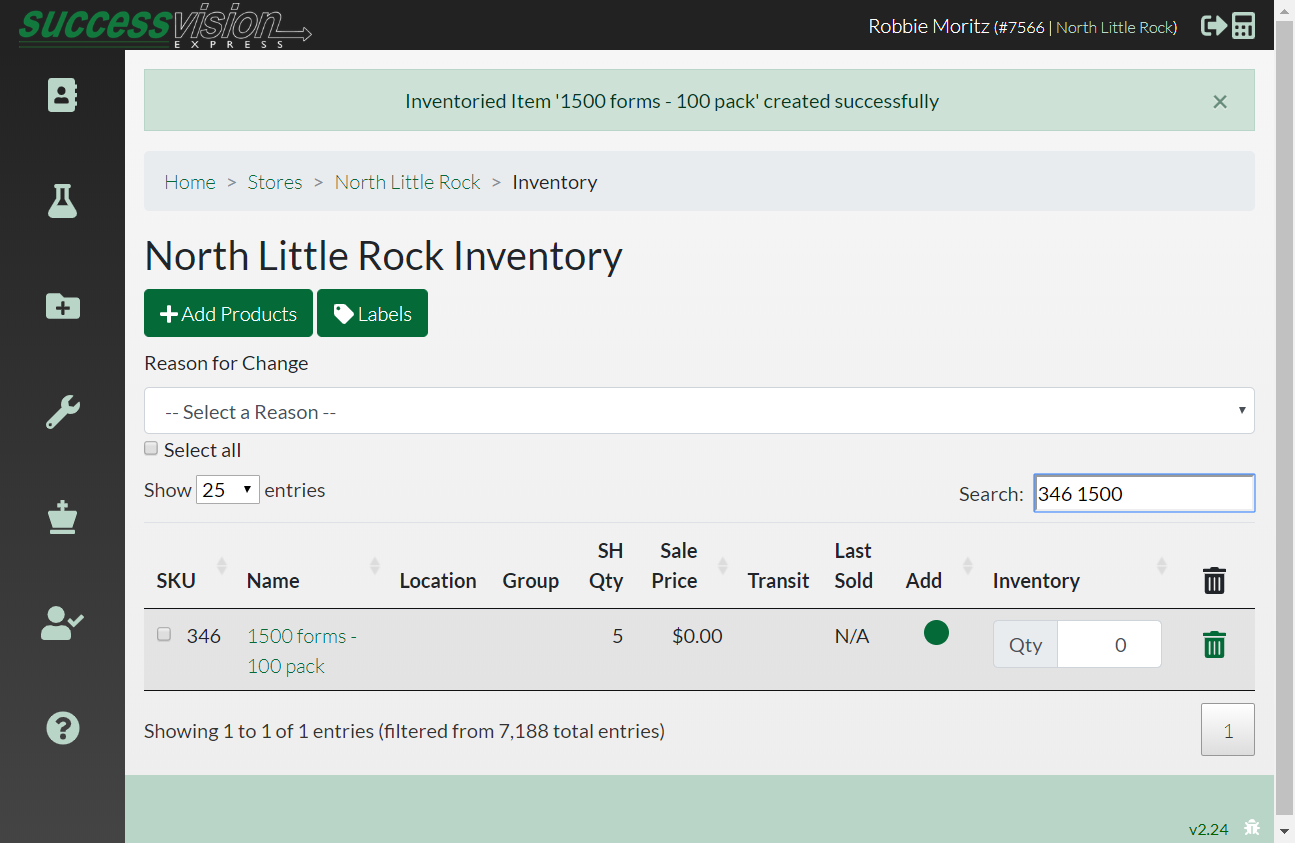
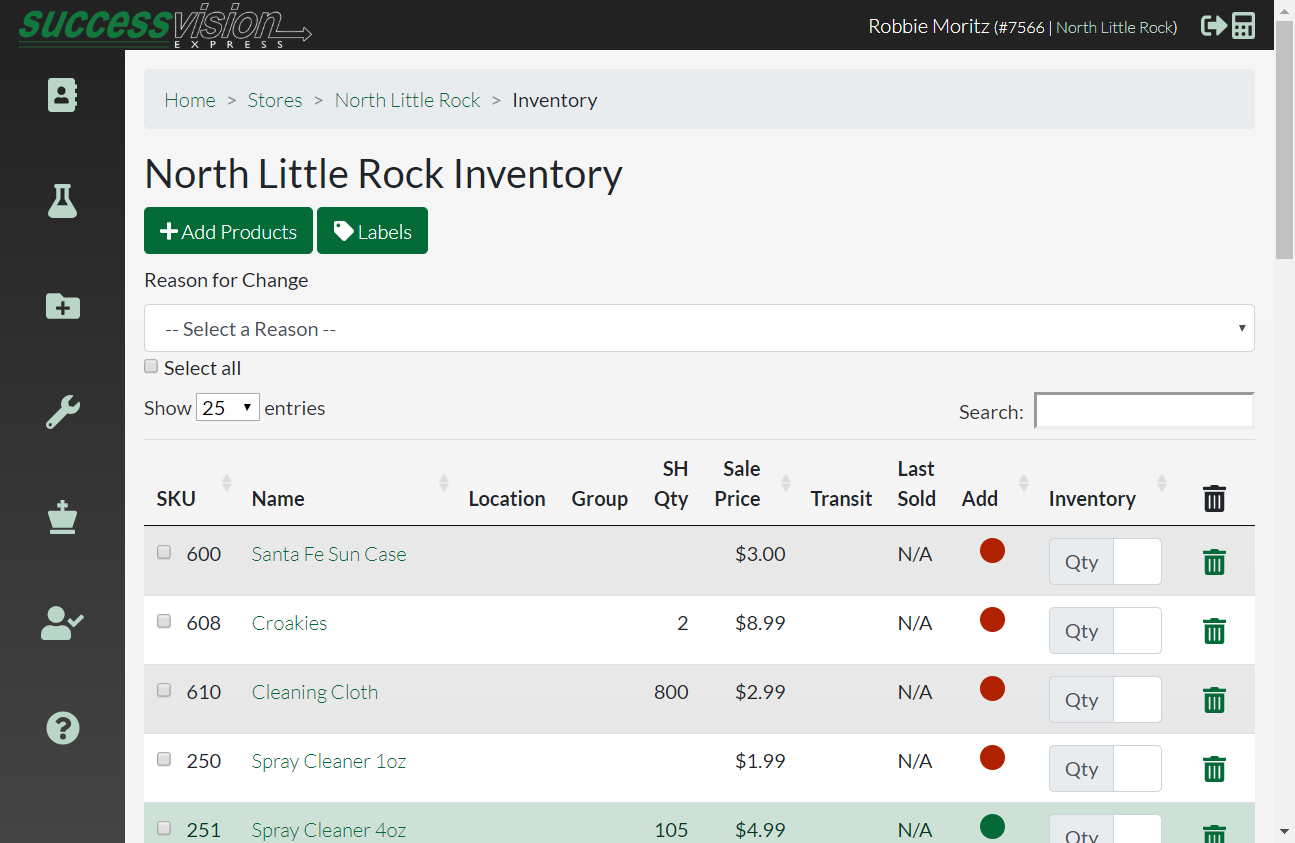
Inventory tests completed and added to the xml file

diff --git a/src/main/java/pages/InventoryPage.java b/src/main/java/pages/InventoryPage.java
@@ -3,6 +3,7 @@ package pages;
 import org.openqa.selenium.*;
 import org.openqa.selenium.WebDriver;
 import org.openqa.selenium.support.ui.ExpectedConditions;
+import org.openqa.selenium.support.ui.Select;
 import org.openqa.selenium.support.ui.WebDriverWait;
 
 public class InventoryPage {
@@ -18,21 +19,32 @@ public class InventoryPage {
     }
 
 
-
+       // private By showDataEntries = By.id("DataTables_Table_1_length");
         private By addProductsBtn = By.xpath("//button[@class='btn btn-primary js-confirm-this']");
         private By pleaseSelectList = By.xpath("//span[contains(text(),'Please select')]");
         private By emptyProductField = By.xpath("//html//body//span//span//span//input");
         private By submitProductBtn = By.xpath("//div[@class='modal-footer']//input[@name='commit']");
         private By searchField = By.xpath("//label[contains(text(),'Search:')]//input");
         private By trashNewProduct = By.xpath("//a[contains(@class,'btn text-primary')]//*[local-name()='svg']");
+        private By checkInventoriedItem = By.xpath("//a[contains(text(),'Spray Cleaner 4oz')]");
+        private By checkBatchID = By.xpath("//a[contains(text(),'110')]");
+        private By quantityBefore = By.cssSelector("body.access-grid:nth-child(2) main.container-fluid:nth-child(4) div.batches.show div.card div.card-body table.nowrap.responsive.table.table-sm:nth-child(3) thead:nth-child(1) tr:nth-child(1) > th.text-center:nth-child(3)");
+        private By quantityBeforeAmount = By.cssSelector("body.access-grid:nth-child(2) main.container-fluid:nth-child(4) div.batches.show div.card div.card-body table.nowrap.responsive.table.table-sm:nth-child(3) tbody:nth-child(2) tr:nth-child(1) > td.text-center:nth-child(3)");
+        private By quantityAfter = By.cssSelector("body.access-grid:nth-child(2) main.container-fluid:nth-child(4) div.batches.show div.card div.card-body table.nowrap.responsive.table.table-sm:nth-child(3) thead:nth-child(1) tr:nth-child(1) > th.text-center:nth-child(4)");
+        private By quantityAfterAmount = By.cssSelector("body.access-grid:nth-child(2) main.container-fluid:nth-child(4) div.batches.show div.card div.card-body table.nowrap.responsive.table.table-sm:nth-child(3) tbody:nth-child(2) tr:nth-child(1) > td.text-center:nth-child(4)");
+        private By inventoryItemQuantity = By.id("quantity_inventoried_item-164");
+        private By updateCheckedBtn = By.xpath("//form[@id='new_batch']");
+        private By reasonForChangeList = By.xpath("//select[@id='note_text']");
 
-
-
+//    private Select chooseShownDataEntries() {return new Select(driver.findElement(showDataEntries));}
+//
+//    public void selectNumberOfDataEntries(String option) {WebDriverWait wait = new WebDriverWait(driver, 10);
+//        wait.until(ExpectedConditions.presenceOfElementLocated(showDataEntries));
+//        chooseShownDataEntries().selectByVisibleText(option);}
 
     public void setAddProductsBtn(){
         WebDriverWait wait = new WebDriverWait(driver, 5);
-        wait.until(ExpectedConditions.presenceOfElementLocated(addProductsBtn)).click();
-   }
+        wait.until(ExpectedConditions.presenceOfElementLocated(addProductsBtn)).click();   }
 
     public void setPleaseSelectList(){WebDriverWait wait = new WebDriverWait(driver, 5);
         wait.until(ExpectedConditions.presenceOfElementLocated(pleaseSelectList)).click();}
@@ -44,11 +56,12 @@ public class InventoryPage {
 
     public void setSubmitProductBtn(){driver.findElement(submitProductBtn).click();}
 
-    public void setSearchField(String product){driver.findElement(searchField).sendKeys(product);}
+    public void setSearchField(String product){driver.findElement(searchField).clear();
+        driver.findElement(searchField).sendKeys(product);}
 
     public void setTrashNewProduct(){WebDriverWait wait = new WebDriverWait(driver, 3);
         try {
-            Thread.sleep(1000);
+            Thread.sleep(1500);
         } catch (InterruptedException e) {
             e.printStackTrace();
         }
@@ -58,6 +71,35 @@ public class InventoryPage {
     public String alert_getText(){return driver.switchTo().alert().getText();}
 
     public void alert_clickToAccept(){driver.switchTo().alert().accept();}
+
+    public void setCheckInventoriedItem(){WebDriverWait wait = new WebDriverWait(driver, 4);
+        wait.until(ExpectedConditions.elementToBeClickable(checkInventoriedItem)).click(); }
+
+    public void setCheckBatchID(){WebDriverWait wait = new WebDriverWait(driver, 1);
+        wait.until(ExpectedConditions.elementToBeClickable(checkBatchID)).click(); }
+
+    public String setQuantityBefore(){return driver.findElement(quantityBefore).getText();}
+
+    public String setQuantityBeforeAmount(){return driver.findElement(quantityBeforeAmount).getText();}
+
+    public String setQuantityAfter(){return driver.findElement(quantityAfter).getText();}
+
+    public String setQuantityAfterAmount(){return driver.findElement(quantityAfterAmount).getText();}
+
+    public String inventoryItemQuantityValue() {WebDriverWait wait = new WebDriverWait(driver, 2);
+        wait.until(ExpectedConditions.presenceOfElementLocated(inventoryItemQuantity));
+        return driver.findElement(inventoryItemQuantity).getAttribute("value");}
+
+    public void setInventoryItemQuantity(){driver.findElement(inventoryItemQuantity).sendKeys(Keys.ARROW_UP);}
+
+    public void setUpdateCheckedBtn(){WebDriverWait wait = new WebDriverWait(driver, 1);
+        wait.until(ExpectedConditions.elementToBeClickable(updateCheckedBtn)).click();}
+
+    private Select chooseReasonForChange() {return new Select(driver.findElement(reasonForChangeList));}
+
+    public void selectFromReasonForChange(String option) {chooseReasonForChange().selectByVisibleText(option);}
+
+    public void resetInventoryItemQuantity(){driver.findElement(inventoryItemQuantity).sendKeys(Keys.ARROW_DOWN);}
 
 
 }

diff --git a/src/test/java/inventory/InventoryTests.java b/src/test/java/inventory/InventoryTests.java
@@ -9,6 +9,8 @@ import org.openqa.selenium.support.ui.WebDriverWait;
 import org.testng.annotations.Test;
 import pages.InventoryPage;
 import pages.LoginPage;
+import java.util.List;
+import java.util.stream.Collectors;
 
 import static org.testng.Assert.assertEquals;
 import static org.testng.Assert.assertTrue;
@@ -30,6 +32,8 @@ public class InventoryTests extends BaseTests {
         loginPage.adminLogin();
         InventoryPage inventoryPage = homePage.clickInventory();
         System.out.println(inventoryPage.getTitle());
+//        String option = "10";
+//        inventoryPage.selectNumberOfDataEntries(option);
         inventoryPage.setAddProductsBtn();
         inventoryPage.setPleaseSelectList();
         inventoryPage.setEmptyProductField();
@@ -39,10 +43,47 @@ public class InventoryTests extends BaseTests {
         System.out.println("New Product added to the Inventory");
         inventoryPage.setTrashNewProduct();
         inventoryPage.alert_getText();
-        String text = inventoryPage.alert_getText();
-        assertEquals(text, "Are you sure you want to delete 1500 forms - 100 pack?", "Wrong Item, don't delete");
+        String alertText = inventoryPage.alert_getText();
+        assertEquals(alertText, "Are you sure you want to delete 1500 forms - 100 pack?", "Wrong Item, don't delete");
         inventoryPage.alert_clickToAccept();
         System.out.println("Same New Product removed from the Inventory");
+        inventoryPage.setSearchField("4oz" + Keys.ENTER);
+        inventoryPage.setCheckInventoriedItem();
+        System.out.println("Now looking at a 4oz bottle page");
+        inventoryPage.setCheckBatchID();
+        System.out.println("Now looking at the batch ID for the 4oz bottle");
+        String quantityBeforeText = inventoryPage.setQuantityBefore();
+        String quantityBeforeAmountText = inventoryPage.setQuantityBeforeAmount();
+        String quantityAfterText = inventoryPage.setQuantityAfter();
+        String quantityAfterAmountText = inventoryPage.setQuantityAfterAmount();
+        System.out.println("Spray Cleaner: " + quantityBeforeText + " " + quantityBeforeAmountText);
+        System.out.println("Spray Clearer: " + quantityAfterText + " " + quantityAfterAmountText);
+        getWindowManager().goBack();
+        getWindowManager().goBack();
+        String inventoryValue = inventoryPage.inventoryItemQuantityValue();
+        assertEquals(inventoryValue, "5", "Not the correct value");
+        inventoryPage.setInventoryItemQuantity();
+        inventoryPage.setUpdateCheckedBtn();
+        System.out.println("Tried to update the Qty but did not give a reason so it didn't work");
+        assertEquals(inventoryValue, "5", "Not the correct value");
+        System.out.println("Quantity is: " + inventoryValue);
+        String reasonForChange = "Stock Refresh";
+        inventoryPage.selectFromReasonForChange(reasonForChange);
+        inventoryPage.setUpdateCheckedBtn();
+        String newInventoryValue = inventoryPage.inventoryItemQuantityValue();
+        assertEquals(newInventoryValue, "6", "Not the correct value");
+        System.out.println("After providing a reason we are allowed to change the Qty");
+        System.out.println("Quantity is: " + newInventoryValue);
+        inventoryPage.resetInventoryItemQuantity();
+        inventoryPage.setUpdateCheckedBtn();
+        String oldInventoryValue = inventoryPage.inventoryItemQuantityValue();
+        assertEquals(oldInventoryValue, "5", "Not the correct value");
+        System.out.println("returned the product Qty to the original number");
+        System.out.println("Quantity is: " + oldInventoryValue);
+
+
+
+
 
 
 
